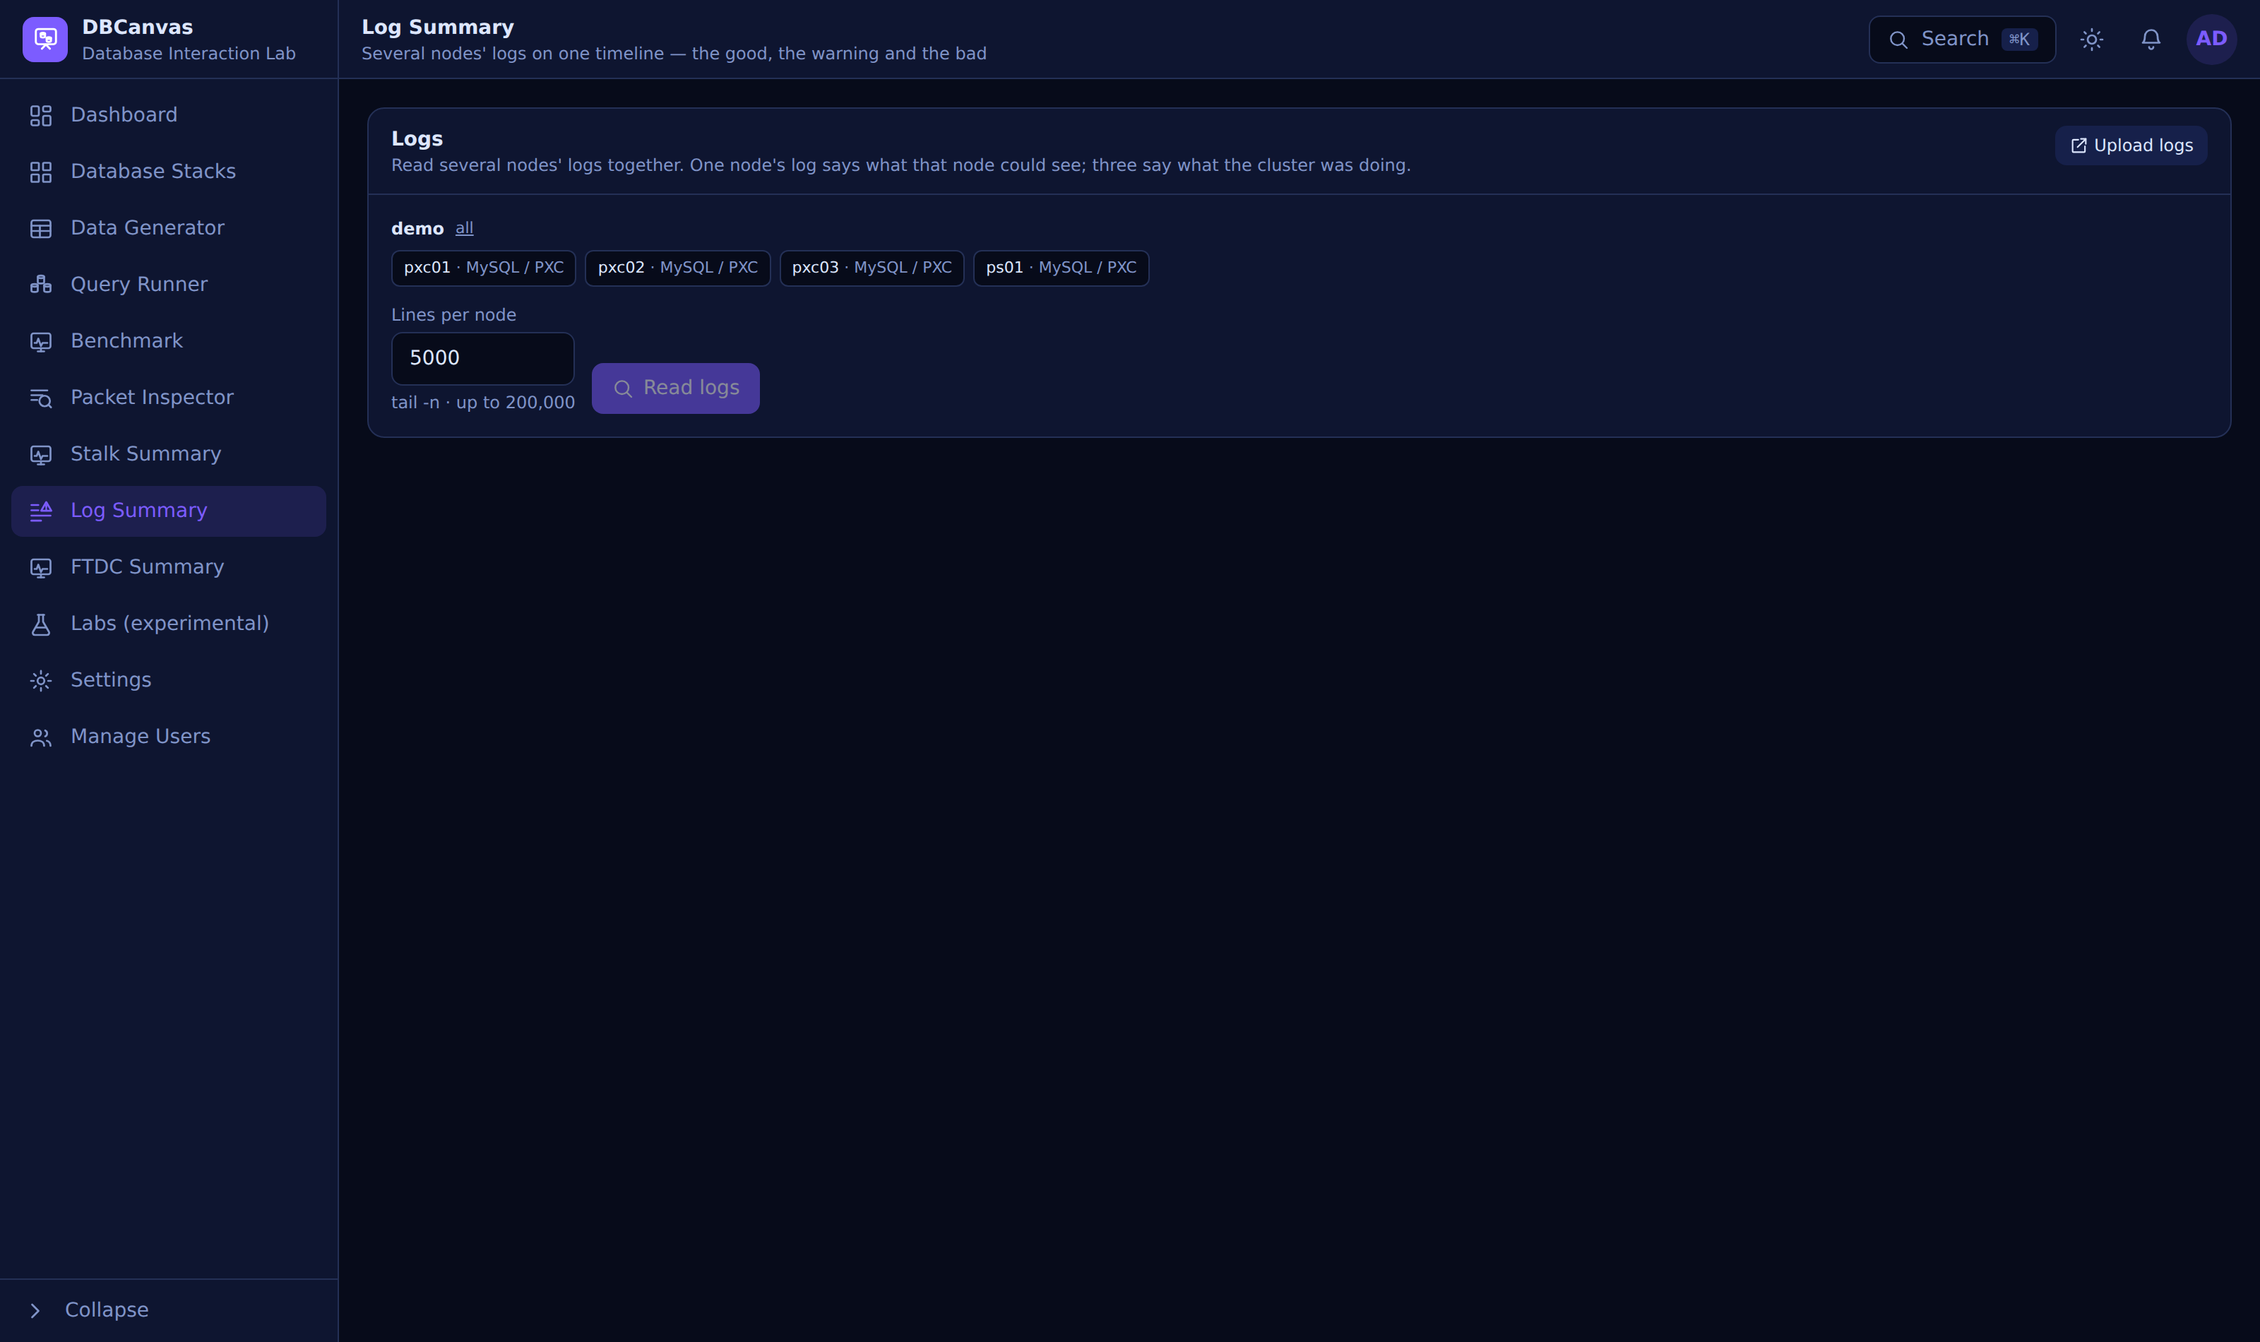
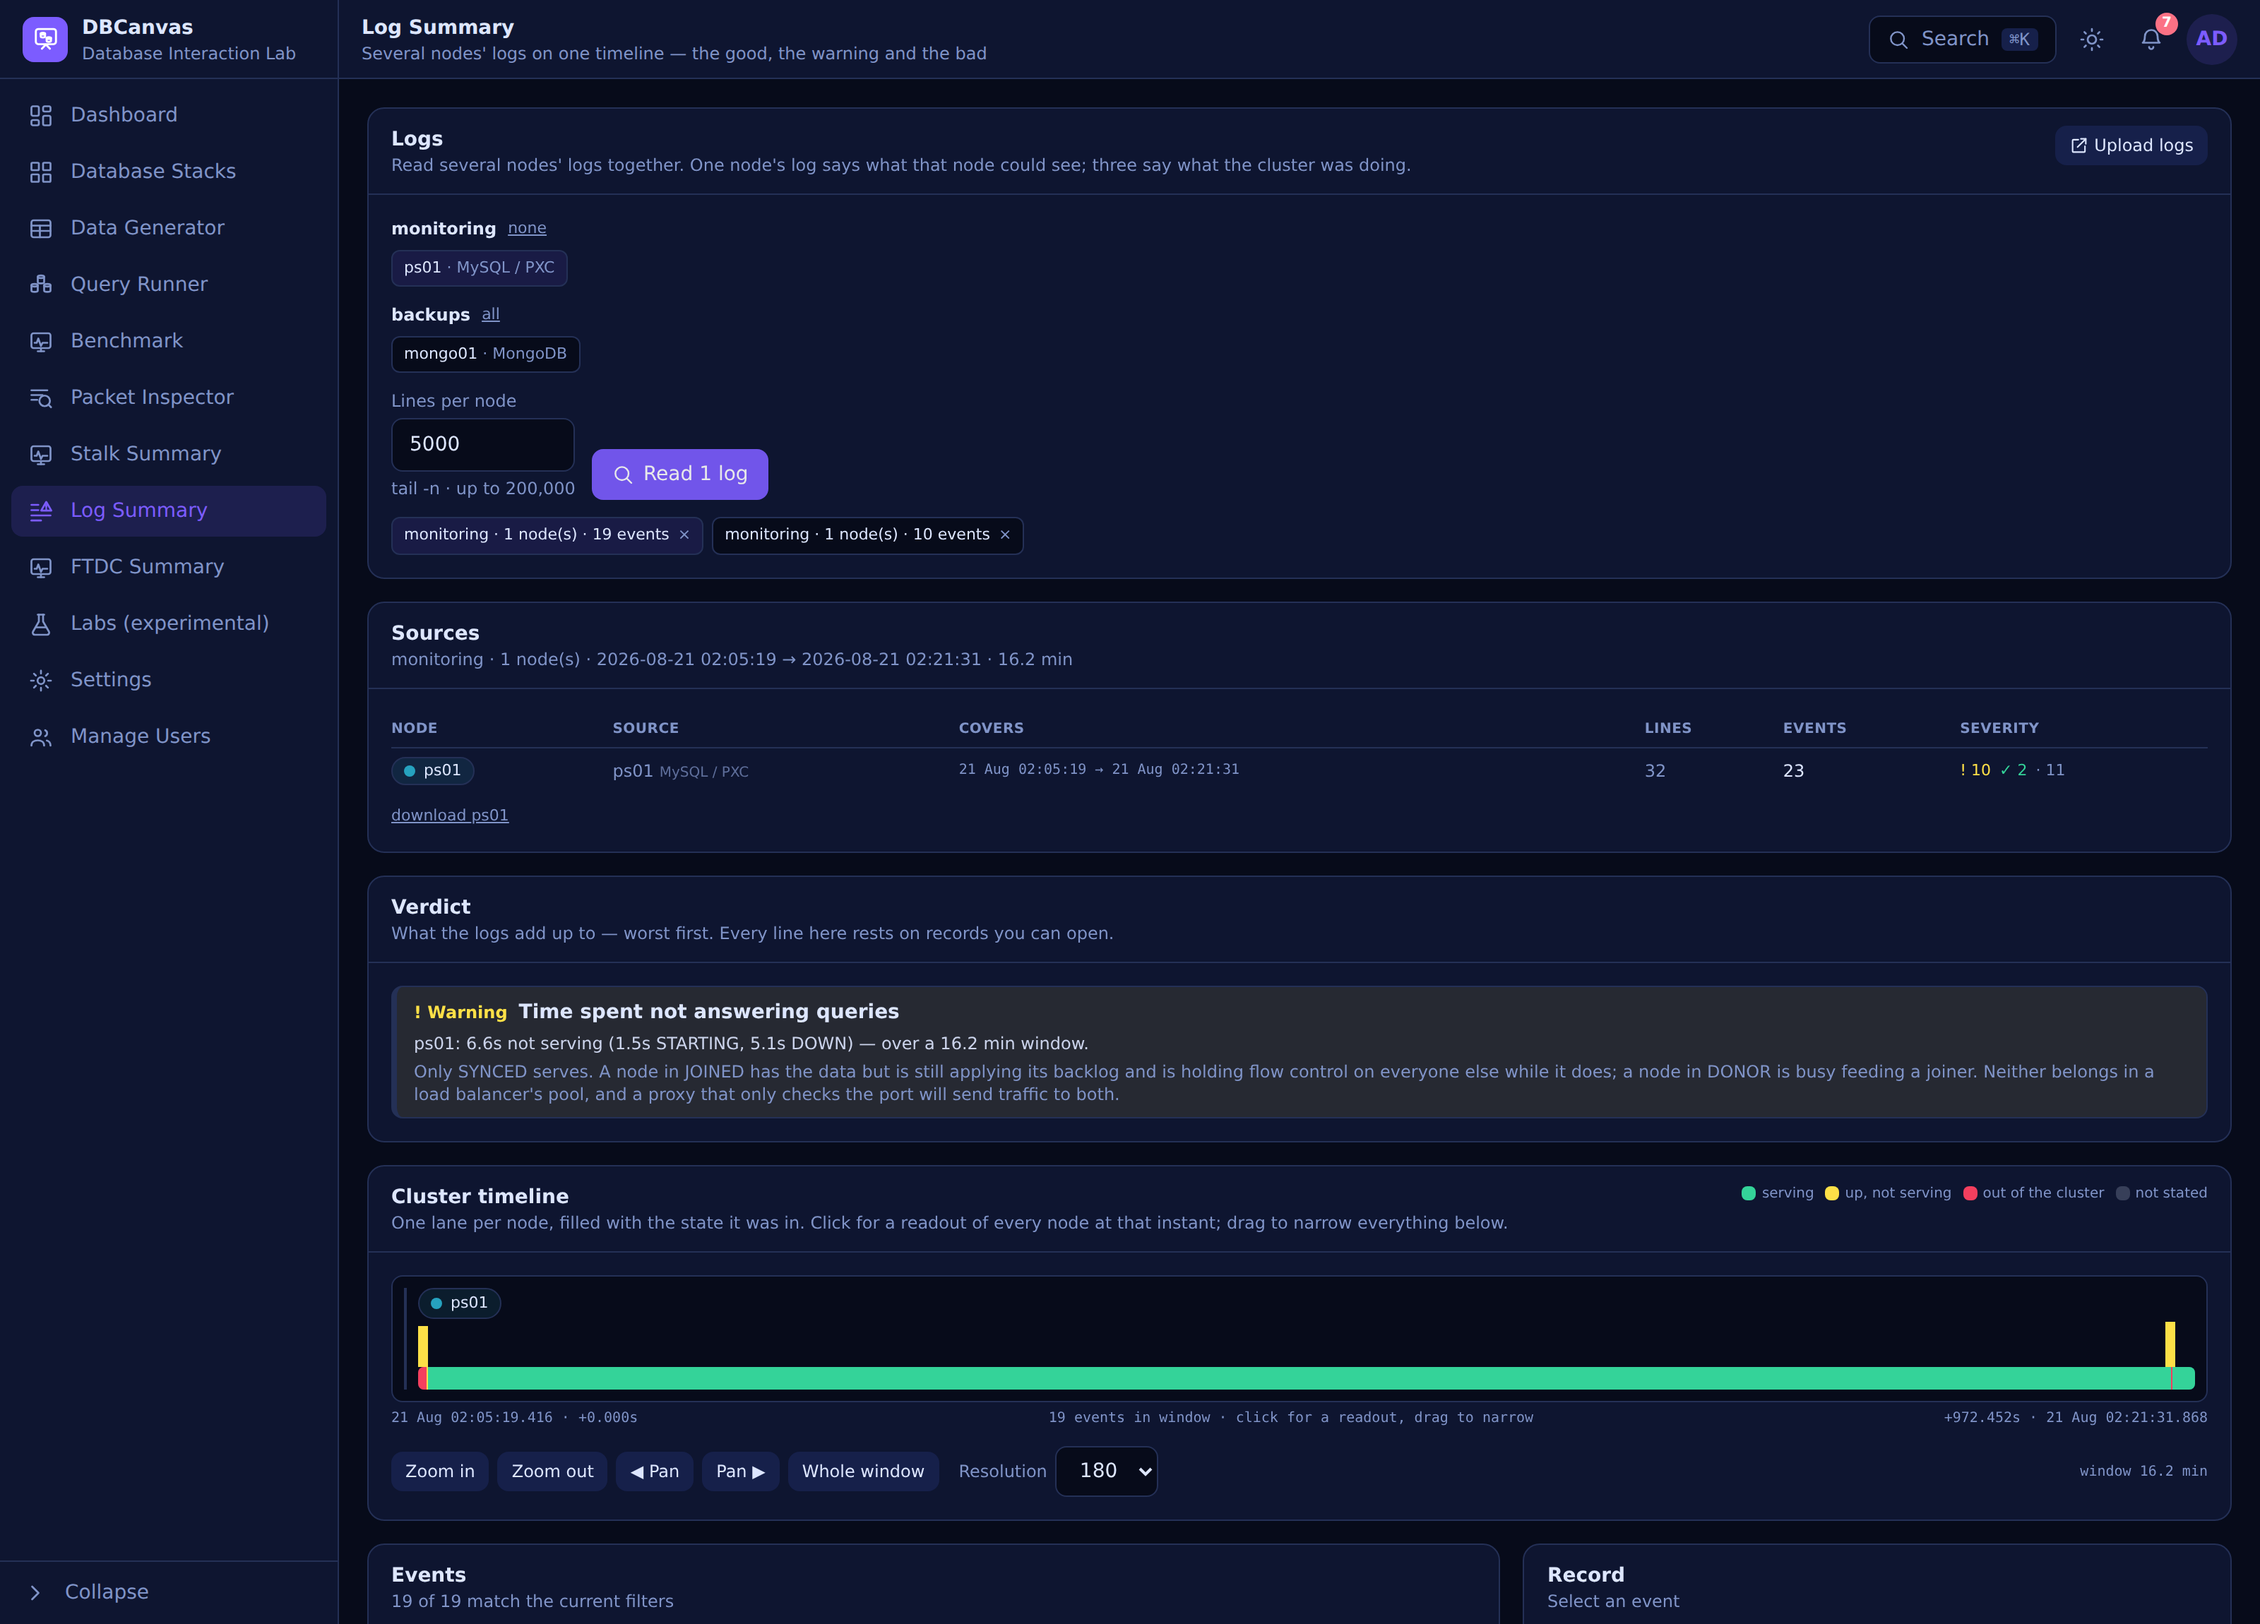
docs: read a log for Log Summary, and run PXC in the K3D shot
Log Summary was the picker with nothing read. A freshly deployed node's log
is a clean startup and little else, so the node was given something to say
first — slow query log on, a rejected login, a service restart — and the
screenshot is the processed result: 32 lines into 23 events over 16 minutes,
the verdict ("6.6s not serving — 1.5s STARTING, 5.1s DOWN"), the state lane
and the event list.

The K3D frame ran CloudNativePG because it deploys fastest. It now runs the
Percona Operator for MySQL (PXC) 1.20.0, with a console open on the same node
running kubectl get pods -A beside the panel: three k3d-00-pxc members, three
k3d-00-haproxy pods, MetalLB and the operator. The panel and the pods it
produced in one frame.

diff --git a/docs/STACKS.md b/docs/STACKS.md
@@ -194,13 +194,15 @@ worth knowing: pgBackRest speaks S3 only over TLS, so its backups need a Seaweed
 on** — the designer warns you when it isn't, because without it the cluster silently keeps the
 operator's own PVC backup repo and the bucket stays empty.)
 
-![A K3D cluster node's panel — the operator, the cluster it built, and its MetalLB block](screenshots/k3d-cluster.png)
+![A K3D cluster node's panel beside a console listing the pods the operator built](screenshots/k3d-cluster.png)
 
-> *A one-node K3D cluster on k3s v1.36.3 running **CloudNativePG 0.29.0**, which has built a
-> two-instance Postgres cluster and reports it healthy. The panel is the whole cluster at a
-> glance: the operator and its namespace, the Postgres endpoint on a MetalLB address, the app
-> role and the Secret holding its password, and where the manifests DBCanvas applied were
-> archived. Its tabs carry `kubectl`, a copyable kubeconfig, and per-namespace Kubernetes users.*
+> *A one-node K3D cluster on k3s v1.36.3 running the **Percona Operator for MySQL (PXC)
+> 1.20.0**, with a console open on the same node: `kubectl get pods -A` shows the three
+> `k3d-00-pxc` members and three `k3d-00-haproxy` pods the operator built, alongside MetalLB
+> and the operator itself. The panel is the cluster at a glance — the operator and its
+> namespace, HAProxy in front, the database kept ClusterIP while the proxy takes a MetalLB
+> address — and its tabs carry `kubectl`, a copyable kubeconfig and per-namespace Kubernetes
+> users.*
 
 **Kubeconfig and RBAC users, for testing access control.** The K3D server node's panel has a
 **Kubeconfig** tab (a copyable admin kubeconfig, pointed at k3d's own load balancer so it works

diff --git a/IMPLEMENTATION.md b/IMPLEMENTATION.md
@@ -16774,3 +16774,24 @@ described the old picture.
   browser.
 - Links and screenshot references across `README.md` and `docs/*.md` all resolve, nothing
   orphaned.
+
+## 294. Two screenshots that needed the feature actually running — `docs/screenshots/{log-summary,k3d-cluster}.png`, `docs/{LOG_SUMMARY,STACKS}.md`
+
+**Log Summary** was the picker with nothing read. Reading a freshly deployed node's log gives a
+timeline of a clean startup and little else, so the node was given something to say first: the
+slow query log turned on, a rejected login, and a service restart. The screenshot is now the
+processed result — 32 lines classified into 23 events over 16 minutes, the verdict that names
+what they add up to ("6.6s not serving — 1.5s STARTING, 5.1s DOWN"), the state lane under it,
+and the event list.
+
+**K3D** ran CloudNativePG because that is what deploys fastest. It now runs the **Percona
+Operator for MySQL (PXC) 1.20.0**, and the shot has a console open on the same node running
+`kubectl get pods -A` beside the panel: three `k3d-00-pxc` members, three `k3d-00-haproxy`
+pods, MetalLB and the operator. The panel and the pods it produced are in one frame, which the
+panel alone could not show.
+
+### Verified
+
+- Both are of the running systems: the PXC cluster reached three ready members before the shot,
+  and the log verdict describes the restart this session caused.
+- Captions rewritten; every link and screenshot reference still resolves.

diff --git a/docs/LOG_SUMMARY.md b/docs/LOG_SUMMARY.md
@@ -4,9 +4,13 @@ The **Log Summary** reads several database servers' logs **together**, on one ti
 and separates the good, the warning and the bad. It is for the question three log files
 are opened to answer and none of them answers alone:
 
-![Log Summary — several nodes' logs on one classified timeline](screenshots/log-summary.png)
+![A node's log read and classified — verdict, state timeline and events](screenshots/log-summary.png)
 
-> *What state was the cluster in at 01:49:35, and which node is telling the truth about it?*
+> *A Percona Server node's log, read and classified: 32 lines became 23 events over a 16-minute
+> window, and the verdict names what they add up to — 6.6 seconds not answering queries, split
+> into the 1.5s it spent starting and the 5.1s it was down. The lane below is the state the node
+> was actually in, minute by minute; pick several nodes and each gets a lane on the same
+> timeline.*
 
 Open it from the sidebar (**Log Summary**) or at `#log-summary`.
 
